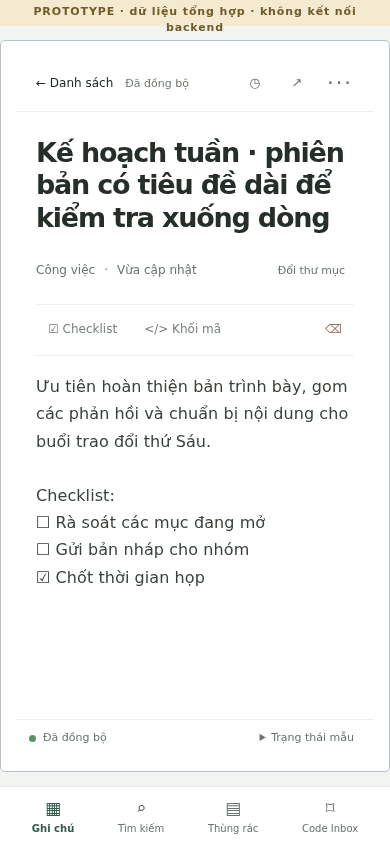
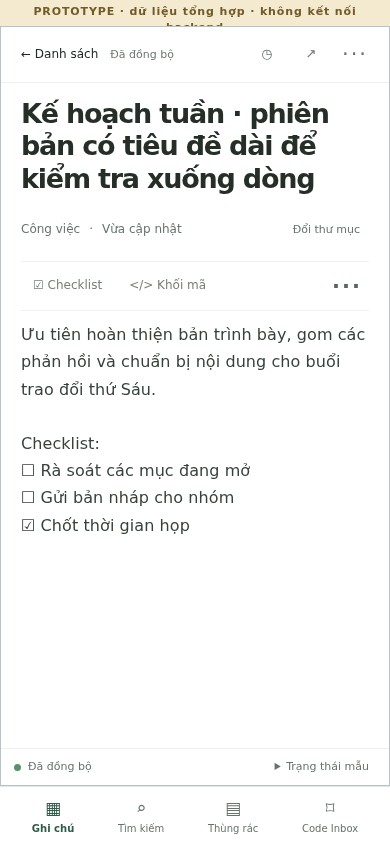
Refine responsive Notes review prototype

diff --git a/prototype/ui-responsive/prototype.css b/prototype/ui-responsive/prototype.css
@@ -1,6 +1,6 @@
 @import url('../../public/app.css');
 :root{font-family:Inter,ui-sans-serif,system-ui,-apple-system,BlinkMacSystemFont,"Segoe UI",sans-serif;color:#202923;background:#f2f4f1;line-height:1.45;--green:#315c49;--green-dark:#244534;--muted:#657168;--line:#e3e8e2;--paper:#fff;--safe-b:env(safe-area-inset-bottom,0px);--safe-t:env(safe-area-inset-top,0px);--keyboard-inset:0px}
-*{box-sizing:border-box}body{margin:0;min-width:320px;height:100vh;height:100dvh;overflow:hidden;background:#f2f4f1}button,input,textarea{font:inherit}button{min-height:44px;border:1px solid transparent;border-radius:9px;background:transparent;color:inherit;padding:8px 11px;box-shadow:none;cursor:pointer}button:hover{background:#edf1eb}a:focus-visible,button:focus-visible,input:focus-visible,textarea:focus-visible{outline:3px solid #39845e;outline-offset:2px}button:disabled{opacity:.5;cursor:default}.prototype-banner{height:26px;padding:4px 12px;background:#f3ead0;color:#725b27;text-align:center;font-size:11px;letter-spacing:.08em;font-weight:700}.app-shell{height:calc(100dvh - 26px);display:grid;grid-template-columns:232px minmax(0,1fr);min-height:0}.folders{display:flex;flex-direction:column;gap:4px;padding:18px 12px 10px;background:#f8f9f7;border-right:1px solid var(--line);min-height:0}.brand{display:flex;align-items:center;gap:10px;margin:0 0 22px;padding:4px 8px;text-decoration:none;color:var(--green-dark);font-weight:750;font-size:19px}.brand:first-letter{display:grid}.brand{letter-spacing:-.02em}.brand::first-letter{color:var(--green);font-size:24px}.folder{display:flex;align-items:center;gap:10px;text-align:left;color:#515d55;font-size:14px}.folder span{min-width:0;overflow:hidden;text-overflow:ellipsis;white-space:nowrap}.folder b{margin-left:auto;color:#68746b;font-size:12px;font-weight:500}.folder.active{background:#e8eee8;color:var(--green-dark);font-weight:650}.folder-spacer{flex:1}.account{display:flex;align-items:center;gap:9px;border-top:1px solid var(--line);padding:14px 3px 2px;font-size:12px}.account strong,.account small{display:block}.account small{color:var(--muted);margin-top:2px}.avatar{display:grid;place-items:center;width:32px;height:32px;border-radius:50%;background:#dce8dd;color:var(--green);font-weight:700}.account>button{margin-left:auto;min-width:40px}
+*{box-sizing:border-box}body{margin:0;min-width:320px;height:100vh;height:100dvh;overflow:hidden;background:#f2f4f1}button,input,textarea{font:inherit}button{min-width:44px;min-height:44px;border:1px solid transparent;border-radius:9px;background:transparent;color:inherit;padding:8px 11px;box-shadow:none;cursor:pointer}button:hover{background:#edf1eb}a:focus-visible,button:focus-visible,input:focus-visible,textarea:focus-visible{outline:3px solid #39845e;outline-offset:2px}button:disabled{opacity:.5;cursor:default}.prototype-banner{height:26px;padding:4px 12px;background:#f3ead0;color:#725b27;text-align:center;font-size:11px;letter-spacing:.08em;font-weight:700}.app-shell{height:calc(100dvh - 26px);display:grid;grid-template-columns:232px minmax(0,1fr);min-height:0}.folders{display:flex;flex-direction:column;gap:4px;padding:18px 12px 10px;background:#f8f9f7;border-right:1px solid var(--line);min-height:0}.brand{display:flex;align-items:center;gap:10px;margin:0 0 22px;padding:4px 8px;text-decoration:none;color:var(--green-dark);font-weight:750;font-size:19px}.brand:first-letter{display:grid}.brand{letter-spacing:-.02em}.brand::first-letter{color:var(--green);font-size:24px}.folder{display:flex;align-items:center;gap:10px;text-align:left;color:#515d55;font-size:14px}.folder span{min-width:0;overflow:hidden;text-overflow:ellipsis;white-space:nowrap}.folder b{margin-left:auto;color:#68746b;font-size:12px;font-weight:500}.folder.active{background:#e8eee8;color:var(--green-dark);font-weight:650}.folder-spacer{flex:1}.account{display:flex;align-items:center;gap:9px;border-top:1px solid var(--line);padding:14px 3px 2px;font-size:12px}.account strong,.account small{display:block}.account small{color:var(--muted);margin-top:2px}.avatar{display:grid;place-items:center;width:32px;height:32px;border-radius:50%;background:#dce8dd;color:var(--green);font-weight:700}.account>button{margin-left:auto;min-width:44px}
 main{min-width:0;min-height:0;display:grid;grid-template-columns:minmax(275px,340px) minmax(0,1fr);max-width:none;margin:0;padding:0}.list-pane{background:#fff;border-right:1px solid var(--line);min-width:0;min-height:0;display:flex;flex-direction:column;position:relative}.list-top{padding:24px 20px 12px}.list-heading{display:flex;align-items:center;justify-content:space-between;gap:8px}.eyebrow{font-size:10px;letter-spacing:.1em;color:#68746b;font-weight:700;margin:0 0 5px}.list-heading h1{font-size:23px;letter-spacing:-.04em;margin:0;font-weight:690}.icon-button{background:var(--green);color:white;font-weight:650}.icon-button:hover{background:var(--green-dark)}.icon-button span{font-size:13px}.search{height:42px;border:1px solid var(--line);border-radius:10px;display:flex;align-items:center;gap:8px;padding:0 10px;margin-top:18px;color:#879188}.search input{border:0!important;padding:0!important;min-height:38px;background:transparent!important;box-shadow:none!important;font-size:13px}.search kbd{white-space:nowrap;color:#68746b;font-size:10px}.list-tools{display:flex;align-items:center;gap:4px;margin-top:13px;color:var(--muted);font-size:12px}.list-tools>span{margin-right:auto}.list-tools button{font-size:12px;min-height:40px}.cards{min-height:0;overflow:auto;padding:0 12px 16px;overscroll-behavior:contain}.note-card{position:relative;display:flex;width:100%;min-height:90px;max-height:120px;flex-direction:column;align-items:stretch;text-align:left;margin:3px 0;padding:12px 13px;background:#fff;border:1px solid transparent;border-radius:11px;box-shadow:none;overflow:hidden}.note-card:hover{background:#fafbf9}.note-card[aria-current=true]{background:#f0f5ef;border-color:#cfdbce}.note-card[aria-pressed=true]{border:2px solid #588369}.note-card strong{font-size:14px;font-weight:650;overflow:hidden;text-overflow:ellipsis;white-space:nowrap}.note-card p{font-size:12px;color:#68746b;margin:5px 0;overflow:hidden;display:-webkit-box;-webkit-line-clamp:2;-webkit-box-orient:vertical;overflow-wrap:anywhere}.note-card small{font-size:10px;color:#68746b;margin-top:auto}.editor-pane{min-width:0;min-height:0;background:#fff;display:flex;flex-direction:column}.editor-top{height:66px;flex:0 0 auto;border-bottom:1px solid #edf0ed;display:flex;align-items:center;justify-content:flex-end;padding:0 28px}.editor-actions{display:flex;gap:3px}.editor-actions button{color:#68746b;font-size:13px}.more-button{font-size:21px!important;letter-spacing:2px}.editor-mobile-actions,.mobile-brand,.mobile-nav{display:none}.editor-scroll{min-height:0;overflow:auto;overscroll-behavior:contain;flex:1}.editor-content{width:min(100%,860px);margin:0 auto;padding:44px clamp(26px,5vw,76px) 48px}.title{width:100%;height:auto;min-height:1.25em;max-height:8em;overflow:hidden;resize:none;border:0!important;padding:0!important;background:transparent!important;font-size:clamp(25px,3vw,36px);line-height:1.2;font-weight:700;letter-spacing:-.045em;color:#252f28;box-shadow:none!important}.meta{display:flex;align-items:center;gap:9px;margin:14px 0 16px;color:#68746b;font-size:12px}.meta-spacer{flex:1}.meta button{font-size:11px;color:#66736a;min-height:40px;padding:5px 8px}.editor-tools{display:flex;align-items:center;gap:3px;border-top:1px solid #eff1ee;border-bottom:1px solid #eff1ee;padding:5px 0;margin:0 0 17px}.editor-tools button{font-size:12px;color:#778178;min-height:40px}.editor-tools #trash-note{margin-left:auto;color:#9b6c63}.editor-content textarea#body{display:block;width:100%;min-height:min(58vh,620px);resize:none;border:0!important;padding:0!important;background:transparent!important;font-size:15px;line-height:1.8;letter-spacing:.005em;color:#374139;box-shadow:none!important;overflow-wrap:anywhere;white-space:pre-wrap}.editor-footer{display:flex;justify-content:space-between;color:#68746b;font-size:11px;padding:14px 0}.statusbar{min-height:37px;display:flex;align-items:center;gap:7px;border-top:1px solid #edf0ed;padding:4px 20px;color:#68746b;font-size:11px}.status-dot{width:7px;height:7px;border-radius:50%;background:#57926d}.statusbar[data-state=draft] .status-dot{background:#cb9c41}.statusbar[data-state=error] .status-dot{background:#bd5849}.status-spacer{flex:1}.save-state{color:#6d796f;font-size:12px}.history-panel,.share-panel{border:1px solid var(--line);border-radius:10px;padding:16px;margin-top:12px;color:#566158;background:#fbfcfa}.history-panel p,.share-panel p{font-size:13px}.bulk{position:absolute;left:12px;right:12px;bottom:16px;padding:9px;background:#253a2d;color:white;border-radius:12px;display:flex;align-items:center;gap:4px;box-shadow:0 8px 25px #17231b33}.bulk[hidden]{display:none}.bulk button{color:white;font-size:12px}.toast{position:fixed;z-index:20;bottom:calc(16px + var(--safe-b));left:50%;transform:translateX(-50%);padding:10px 15px;background:#253a2d;color:#fff;border-radius:10px;font-size:13px;opacity:0;pointer-events:none;transition:opacity .15s}.toast.show{opacity:1}.sr-only{position:absolute!important;width:1px!important;height:1px!important;padding:0!important;margin:-1px!important;overflow:hidden!important;clip:rect(0,0,0,0)!important;white-space:nowrap!important;border:0!important}
 @media(max-width:700px){body{overflow:hidden}.app-shell{display:block;height:calc(100dvh - 26px)}.folders{display:none}.app-shell.show-folders .folders{display:flex;position:fixed;inset:26px auto 0 0;width:min(82vw,300px);height:calc(100dvh - 26px);z-index:30;box-shadow:12px 0 40px #18231c33}.app-shell.show-folders::after{content:"";position:fixed;inset:26px 0 0;background:#17231c55;z-index:29}.app-shell main{height:100%;display:block}.list-pane{height:100%;border:0}.list-top{padding:calc(12px + var(--safe-t)) 16px 9px}.mobile-brand{display:flex;align-items:center;gap:12px;height:42px;margin-bottom:11px}.mobile-brand strong{font-size:18px}.mobile-brand button:last-child{margin-left:auto;background:var(--green);color:white;width:42px}.mobile-brand button:first-child{margin-left:-8px}.list-heading{display:none}.search{margin-top:2px}.list-tools{margin-top:8px}.cards{padding:0 10px calc(74px + var(--safe-b))}.note-card{min-height:83px;max-height:98px;padding:10px 12px}.editor-pane{display:none;height:100%;position:fixed;inset:26px 0 calc(58px + var(--safe-b) + var(--keyboard-inset));height:auto;z-index:10}.app-shell.editing .list-pane{display:none}.app-shell.editing .editor-pane{display:flex}.editor-top{height:auto;min-height:56px;padding:calc(4px + var(--safe-t)) 12px 4px;justify-content:space-between;gap:5px}.editor-mobile-actions{display:flex;align-items:center;gap:4px;min-width:0}.editor-mobile-actions button{font-size:12px;padding:6px 7px;white-space:nowrap}.save-state{font-size:11px;white-space:nowrap}.editor-actions{gap:0}.editor-actions button{padding:7px 8px;min-width:42px}.editor-actions button span{display:none}.editor-scroll{padding-bottom:calc(16px + var(--safe-b))}.editor-content{padding:25px 20px 34px}.title{font-size:27px}.meta{margin:11px 0 13px;flex-wrap:wrap}.editor-content textarea#body{min-height:44vh;min-height:calc(100dvh - 310px);font-size:16px;line-height:1.7}.statusbar{padding:5px 13px calc(5px + var(--safe-b))}.statusbar>span:last-child{display:none}.mobile-nav{position:fixed;z-index:12;bottom:var(--keyboard-inset);left:0;right:0;padding:5px 10px calc(5px + var(--safe-b));height:calc(58px + var(--safe-b));display:flex;justify-content:space-around;background:#fff;border-top:1px solid var(--line)}.mobile-nav button{display:flex;min-width:52px;flex-direction:column;align-items:center;justify-content:center;gap:1px;font-size:17px;min-height:48px;color:#68746b}.mobile-nav button span{font-size:10px}.mobile-nav button.active{color:var(--green);font-weight:650}.bulk{bottom:calc(66px + var(--safe-b));flex-wrap:wrap}.bulk button{min-height:40px}.toast{bottom:calc(68px + var(--safe-b))}}
 @media(min-width:701px) and (max-width:900px){.app-shell{grid-template-columns:64px minmax(0,1fr)}.folders{padding:14px 8px}.brand{justify-content:center;font-size:0;margin-bottom:17px;padding:4px}.brand::first-letter{font-size:24px}.folder{justify-content:center;position:relative;padding:9px 4px}.folder span,.folder b,.account>span:not(.avatar),.account>button{display:none}.folder-spacer{min-height:16px}.account{justify-content:center;padding:12px 0 2px}}
@@ -10,4 +10,61 @@ main{min-width:0;min-height:0;display:grid;grid-template-columns:minmax(275px,34
 @media(prefers-reduced-motion:reduce){*,*::before,*::after{scroll-behavior:auto!important;transition:none!important;animation:none!important}}
 
 .state-picker{position:relative;margin:0;padding:0;border:0;background:transparent}.state-picker summary{font-size:11px;font-weight:500;color:#68746b;padding:5px 7px}.scenario-menu{position:absolute;z-index:25;right:0;bottom:30px;width:min(260px,80vw);padding:8px;background:white;border:1px solid var(--line);border-radius:11px;box-shadow:0 8px 25px #17231c22}.scenario-menu button{display:block;width:100%;text-align:left;font-size:12px;min-height:40px}.empty-state{margin:30px 8px;padding:18px;border:1px dashed #cbd6cc;border-radius:10px;color:#7b867d;font-size:13px}
-@media(min-width:701px) and (max-width:900px){.app-shell.single-pane{display:block}.app-shell.single-pane .folders{display:none}.app-shell.single-pane.show-folders .folders{display:flex;position:fixed;inset:26px auto 0 0;width:min(82vw,300px);height:calc(100dvh - 26px);z-index:30;box-shadow:12px 0 40px #18231c33}.app-shell.single-pane.show-folders::after{content:"";position:fixed;inset:26px 0 0;background:#17231c55;z-index:29}.app-shell.single-pane main{display:block;height:100%}.app-shell.single-pane .list-pane{display:flex;height:100%;border:0}.app-shell.single-pane .list-top{padding:calc(12px + var(--safe-t)) 16px 9px}.app-shell.single-pane .mobile-brand{display:flex;align-items:center;gap:12px;height:42px;margin-bottom:11px}.app-shell.single-pane .mobile-brand strong{font-size:18px}.app-shell.single-pane .mobile-brand button:last-child{margin-left:auto;background:var(--green);color:white;width:42px}.app-shell.single-pane .mobile-brand button:first-child{margin-left:-8px}.app-shell.single-pane .list-heading{display:none}.app-shell.single-pane .search{margin-top:2px}.app-shell.single-pane .list-tools{margin-top:8px}.app-shell.single-pane .cards{padding:0 10px calc(74px + var(--safe-b))}.app-shell.single-pane .editor-pane{display:none;height:auto;position:fixed;inset:26px 0 calc(58px + var(--safe-b) + var(--keyboard-inset));z-index:10}.app-shell.single-pane.editing .list-pane{display:none}.app-shell.single-pane.editing .editor-pane{display:flex}.app-shell.single-pane .editor-top{min-height:56px;padding:calc(4px + var(--safe-t)) 12px 4px;justify-content:space-between}.app-shell.single-pane .editor-mobile-actions{display:flex;align-items:center;gap:4px}.app-shell.single-pane .editor-mobile-actions button{font-size:12px;padding:6px 7px}.app-shell.single-pane .save-state{font-size:11px}.app-shell.single-pane .editor-actions{gap:0}.app-shell.single-pane .editor-actions button span{display:none}.app-shell.single-pane .editor-content{padding:35px clamp(26px,5vw,42px) 34px}.app-shell.single-pane .editor-content textarea#body{min-height:52vh;font-size:16px;line-height:1.7}.app-shell.single-pane .statusbar{padding:5px 13px calc(5px + var(--safe-b))}.app-shell.single-pane .mobile-nav{position:fixed;z-index:12;bottom:var(--keyboard-inset);left:0;right:0;padding:5px 10px calc(5px + var(--safe-b));height:calc(58px + var(--safe-b));display:flex;justify-content:space-around;background:#fff;border-top:1px solid var(--line)}.app-shell.single-pane .mobile-nav button{display:flex;min-width:52px;flex-direction:column;align-items:center;justify-content:center;gap:1px;font-size:17px;min-height:48px;color:#7c877e}.app-shell.single-pane .mobile-nav button span{font-size:10px}.app-shell.single-pane .mobile-nav button.active{color:var(--green);font-weight:650}}
+@media(min-width:701px) and (max-width:960px){.app-shell.single-pane{display:block}.app-shell.single-pane .folders{display:none}.app-shell.single-pane.show-folders .folders{display:flex;position:fixed;inset:26px auto 0 0;width:min(82vw,300px);height:calc(100dvh - 26px);z-index:30;box-shadow:12px 0 40px #18231c33}.app-shell.single-pane.show-folders::after{content:"";position:fixed;inset:26px 0 0;background:#17231c55;z-index:29}.app-shell.single-pane main{display:block;height:100%}.app-shell.single-pane .list-pane{display:flex;height:100%;border:0}.app-shell.single-pane .list-top{padding:calc(12px + var(--safe-t)) 16px 9px}.app-shell.single-pane .mobile-brand{display:flex;align-items:center;gap:12px;height:42px;margin-bottom:11px}.app-shell.single-pane .mobile-brand strong{font-size:18px}.app-shell.single-pane .mobile-brand button:last-child{margin-left:auto;background:var(--green);color:white;width:42px}.app-shell.single-pane .mobile-brand button:first-child{margin-left:-8px}.app-shell.single-pane .list-heading{display:none}.app-shell.single-pane .search{margin-top:2px}.app-shell.single-pane .list-tools{margin-top:8px}.app-shell.single-pane .cards{padding:0 10px calc(74px + var(--safe-b))}.app-shell.single-pane .editor-pane{display:none;height:auto;position:fixed;inset:26px 0 calc(58px + var(--safe-b) + var(--keyboard-inset));z-index:10}.app-shell.single-pane.editing .list-pane{display:none}.app-shell.single-pane.editing .editor-pane{display:flex}.app-shell.single-pane .editor-top{min-height:56px;padding:calc(4px + var(--safe-t)) 12px 4px;justify-content:space-between}.app-shell.single-pane .editor-mobile-actions{display:flex;align-items:center;gap:4px}.app-shell.single-pane .editor-mobile-actions button{font-size:12px;padding:6px 7px}.app-shell.single-pane .save-state{font-size:11px}.app-shell.single-pane .editor-actions{gap:0}.app-shell.single-pane .editor-actions button span{display:none}.app-shell.single-pane .editor-content{padding:35px clamp(26px,5vw,42px) 34px}.app-shell.single-pane .editor-content textarea#body{min-height:52vh;font-size:16px;line-height:1.7}.app-shell.single-pane .statusbar{padding:5px 13px calc(5px + var(--safe-b))}.app-shell.single-pane .mobile-nav{position:fixed;z-index:12;bottom:var(--keyboard-inset);left:0;right:0;padding:5px 10px calc(5px + var(--safe-b));height:calc(58px + var(--safe-b));display:flex;justify-content:space-around;background:#fff;border-top:1px solid var(--line)}.app-shell.single-pane .mobile-nav button{display:flex;min-width:52px;flex-direction:column;align-items:center;justify-content:center;gap:1px;font-size:17px;min-height:48px;color:#7c877e}.app-shell.single-pane .mobile-nav button span{font-size:10px}.app-shell.single-pane .mobile-nav button.active{color:var(--green);font-weight:650}}
+
+/* Responsive review follow-up: width-driven tablet surfaces, readable long titles, and labeled destructive action. */
+.title{overflow-y:auto;scrollbar-width:thin}
+.list-pane,.editor-pane{margin:0;padding:0;border-radius:0}
+.editor-more{position:relative;margin:0 0 0 auto;padding:0;border:0;border-radius:0;background:transparent}
+.editor-more summary{display:grid;place-items:center;width:44px;min-width:44px;height:44px;min-height:44px;padding:0;border:0;border-radius:9px;cursor:pointer;list-style:none;color:#59665d;font-size:21px;letter-spacing:2px}
+.editor-more summary::-webkit-details-marker{display:none}
+.editor-menu{position:absolute;right:0;top:42px;z-index:25;width:210px;padding:6px;background:#fff;border:1px solid var(--line);border-radius:10px;box-shadow:0 8px 25px #17231c22}
+.editor-menu button{width:100%;text-align:left;color:#8c4036;min-height:44px}
+.list-tools button,.editor-tools button,.bulk button{min-height:44px}
+.editor-actions button{min-width:44px}
+.meta button,.scenario-menu button{min-height:44px}
+@media(min-width:701px) and (max-width:1200px){
+  .app-shell{grid-template-columns:64px minmax(0,1fr)}
+  .folders{padding:14px 8px}
+  .brand{justify-content:center;font-size:0;margin-bottom:17px;padding:4px}
+  .folder{justify-content:center;position:relative;padding:9px 4px}
+  .folder span,.folder b,.account>span:not(.avatar),.account>button{display:none}
+  .account{justify-content:center;padding:12px 0 2px}
+  main{grid-template-columns:minmax(290px,320px) minmax(0,1fr)}
+  .mobile-brand{display:flex;align-items:center;gap:10px;height:42px;margin-bottom:8px}
+  .mobile-brand strong{font-size:18px}
+  .mobile-brand button:last-child{margin-left:auto;background:var(--green);color:white;width:44px}
+  .mobile-brand button:first-child{margin-left:-8px}
+  .list-heading{display:none}
+  .list-top{padding:14px 16px 9px}
+  .search{margin-top:2px}
+  .list-tools{margin-top:7px}
+  .editor-top{min-height:56px;height:auto;padding:4px 14px;justify-content:space-between}
+  .editor-mobile-actions{display:flex;align-items:center;gap:4px}
+  .editor-mobile-actions button{font-size:13px}
+  .editor-actions button span{display:inline}
+  .editor-content{width:min(100%,980px);padding:27px clamp(30px,4vw,56px) 38px}
+  .editor-content textarea#body{min-height:52vh}
+  .mobile-nav{display:none}
+}
+@media(min-width:701px) and (max-width:820px){
+  .app-shell.single-pane{display:block}
+  .app-shell.single-pane .folders{display:none}
+  .app-shell.single-pane.show-folders .folders{display:flex;position:fixed;inset:26px auto 0 0;width:min(82vw,300px);height:calc(100dvh - 26px);z-index:30;box-shadow:12px 0 40px #18231c33}
+  .app-shell.single-pane.show-folders::after{content:"";position:fixed;inset:26px 0 0;background:#17231c55;z-index:29}
+  .app-shell.single-pane main{display:block;height:100%}
+  .app-shell.single-pane .list-pane{height:100%;border:0}
+  .app-shell.single-pane .editor-pane{display:none;position:fixed;inset:26px 0 0;height:auto;z-index:10}
+  .app-shell.single-pane.editing .list-pane{display:none}
+  .app-shell.single-pane.editing .editor-pane{display:flex}
+  .app-shell.single-pane .editor-content{width:min(100%,744px);padding:25px 53px 38px}
+  .app-shell.single-pane .editor-content textarea#body{min-height:58vh}
+  .app-shell.single-pane .statusbar{padding-inline:16px}
+}
+@media(max-width:700px){
+  .editor-content{padding:15px 20px 30px}
+  .meta{margin:7px 0 9px}
+  .editor-tools{margin-bottom:10px;padding:2px 0}
+  .title{max-height:6.5em;font-size:27px}
+  .editor-content textarea#body{min-height:calc(100dvh - 280px)}
+}

diff --git a/prototype/ui-responsive/prototype.js b/prototype/ui-responsive/prototype.js
@@ -8,7 +8,7 @@ const fixture=[
  {id:'7',title:'Bữa tối cuối tuần',folder:'Cá nhân',text:'Rau củ, mì, gia vị. Nhớ kiểm tra danh sách trước khi đi chợ.',time:'T. 3'},
  {id:'8',title:'Ghi nhanh ý tưởng',folder:'Ý tưởng',text:'Một dòng ý tưởng ngắn để kiểm tra mật độ danh sách.',time:'T. 2'}
 ];
-const $=id=>document.getElementById(id),shell=document.querySelector('.app-shell'),draftKey='web-notes-ui-prototype-synthetic-v1';if(new URLSearchParams(location.search).get('layout')==='single')shell.classList.add('single-pane');let stored;try{stored=JSON.parse(localStorage.getItem(draftKey)||'null')}catch{}let notes=stored?.notes??structuredClone(fixture),active='1',selected=new Set(),selecting=false,trash=stored?.trash??[],folderFilter='Tất cả ghi chú',inTrash=false,timer,saveState='synced',previewMode=null;
+const $=id=>document.getElementById(id),shell=document.querySelector('.app-shell'),draftKey='web-notes-ui-prototype-synthetic-v1',tabletSingle=matchMedia('(min-width: 701px) and (max-width: 960px)');if(new URLSearchParams(location.search).get('layout')==='single'||tabletSingle.matches)shell.classList.add('single-pane');tabletSingle.addEventListener('change',event=>shell.classList.toggle('single-pane',event.matches||new URLSearchParams(location.search).get('layout')==='single'));let stored;try{stored=JSON.parse(localStorage.getItem(draftKey)||'null')}catch{}let notes=stored?.notes??structuredClone(fixture),active='1',selected=new Set(),selecting=false,trash=stored?.trash??[],folderFilter='Tất cả ghi chú',inTrash=false,timer,saveState='synced',previewMode=null;
 function esc(text){return String(text).replace(/[&<>"']/g,c=>({'&':'&amp;','<':'&lt;','>':'&gt;','"':'&quot;',"'":'&#39;'}[c]));}
 function current(){return notes.find(n=>n.id===active)}
 function render(){const q=$('search').value.toLocaleLowerCase('vi');const source=inTrash?trash:notes;const rows=(previewMode==='empty'?[]:source.filter(n=>(inTrash||folderFilter==='Tất cả ghi chú'||n.folder===folderFilter)&&`${n.title} ${n.text} ${n.folder}`.toLocaleLowerCase('vi').includes(q)));$('cards').replaceChildren(...rows.map(n=>{const b=document.createElement('button');b.type='button';b.className='note-card';b.dataset.id=n.id;b.setAttribute('aria-current',String(n.id===active));if(selecting)b.setAttribute('aria-pressed',String(selected.has(n.id)));b.innerHTML=`<strong>${esc(n.title||'Chưa có tiêu đề')}</strong><p>${esc(n.text)}</p><small>${esc(n.folder)} · ${esc(n.time)}</small>`;b.addEventListener('click',()=>selecting?toggleSelect(n.id):open(n.id));return b;}));if(!rows.length){const empty=document.createElement('p');empty.className='empty-state';empty.textContent=inTrash?'Thùng rác đang trống.':q?'Không tìm thấy ghi chú phù hợp.':'Chưa có ghi chú trong kho này.';$('cards').append(empty);}$('note-count').textContent=`${rows.length} ghi chú`;$('restore-trash').hidden=!inTrash||!trash.length;$('select-mode').hidden=inTrash;$('bulk').hidden=!selecting;$('selected-count').textContent=`${selected.size} đã chọn`;document.querySelectorAll('.folder[data-folder]').forEach(b=>b.classList.toggle('active',!inTrash&&b.dataset.folder===folderFilter));}
@@ -32,5 +32,5 @@ $('bulk-move').addEventListener('click',()=>{for(const n of notes.filter(x=>sele
 $('move-note').addEventListener('click',()=>{const n=current();n.folder=n.folder==='Công việc'?'Cá nhân':'Công việc';$('folder-meta').textContent=n.folder;render();toast(`Đã chuyển vào ${n.folder} (fixture)`);});$('trash-note').addEventListener('click',()=>{const n=current();trash.push(n);notes=notes.filter(x=>x.id!==active);persistFixture();active=notes[0]?.id;render();if(active)open(active);toast('Đã chuyển vào thùng rác (fixture)');});
 $('history-button').addEventListener('click',()=>{$('history-panel').hidden=!$('history-panel').hidden;$('history-button').setAttribute('aria-expanded',String(!$('history-panel').hidden));});$('history-close').addEventListener('click',()=>$('history-panel').hidden=true);$('share-button').addEventListener('click',()=>{$('share-panel').hidden=!$('share-panel').hidden;});$('share-close').addEventListener('click',()=>$('share-panel').hidden=true);$('revoke-share').addEventListener('click',()=>{ $('share-panel').hidden=true;toast('Đã ngừng chia sẻ fixture');});$('checklist-button').addEventListener('click',()=>{const area=$('body');const at=area.selectionStart;area.setRangeText('\n☐ Mục checklist mới',at,area.selectionEnd,'end');area.dispatchEvent(new Event('input',{bubbles:true}));area.focus();});$('code-button').addEventListener('click',()=>{const area=$('body'),a=area.selectionStart,b=area.selectionEnd;area.setRangeText('\n```\nMã tổng hợp\n```\n',a,b,'end');area.dispatchEvent(new Event('input',{bubbles:true}));area.focus();});$('more-button').addEventListener('click',()=>toast('Thao tác bổ sung: ghim, xuất, xóa vĩnh viễn'));
 document.querySelectorAll('[data-scenario]').forEach(button=>button.addEventListener('click',()=>{button.closest('details')?.removeAttribute('open');previewMode=button.dataset.scenario==='empty'?'empty':null;const messages={ready:['synced','Đã đồng bộ'],loading:['loading','Đang tải danh sách…'],offline:['draft','Ngoại tuyến · đã giữ trên máy'],error:['error','Lỗi đồng bộ · bản nháp vẫn được giữ'],conflict:['conflict','Xung đột phiên · bản nháp của bạn vẫn được giữ'],empty:['synced','Kho tổng hợp trống']};const [state,label]=messages[button.dataset.scenario];setState(state,label);render();}));
-document.addEventListener('keydown',e=>{if((e.metaKey||e.ctrlKey)&&e.key.toLowerCase()==='k'){e.preventDefault();$('search').focus();}if(e.key==='Escape'){shell.classList.remove('show-folders');if(innerWidth<=700)shell.classList.remove('editing');}});
-const viewport=window.visualViewport;const updateKeyboardInset=()=>{const inset=viewport?Math.max(0,window.innerHeight-viewport.height-viewport.offsetTop):0;document.documentElement.style.setProperty('--keyboard-inset',`${Math.round(inset)}px`);if(shell.classList.contains('editing'))resizeTitle();};viewport?.addEventListener('resize',updateKeyboardInset);window.addEventListener('resize',updateKeyboardInset);for(const field of [$('title'),$('body')])field.addEventListener('focus',()=>setTimeout(()=>field.scrollIntoView({block:'nearest',behavior:'smooth'}),60));updateKeyboardInset();render();open(active);
+document.addEventListener('keydown',e=>{if((e.metaKey||e.ctrlKey)&&e.key.toLowerCase()==='k'){e.preventDefault();$('search').focus();}if(e.key==='Escape'){shell.classList.remove('show-folders');document.querySelector('.editor-more').removeAttribute('open');if(innerWidth<=960)shell.classList.remove('editing');}});
+const viewport=window.visualViewport;const updateKeyboardInset=()=>{const inset=viewport?Math.max(0,window.innerHeight-viewport.height-viewport.offsetTop):0;document.documentElement.style.setProperty('--keyboard-inset',`${Math.round(inset)}px`);if(shell.classList.contains('editing'))resizeTitle();};viewport?.addEventListener('resize',updateKeyboardInset);window.addEventListener('resize',updateKeyboardInset);for(const field of [$('title'),$('body')])field.addEventListener('focus',()=>setTimeout(()=>field.scrollIntoView({block:'nearest',behavior:'smooth'}),60));updateKeyboardInset();render();open(active);if(tabletSingle.matches)shell.classList.remove('editing');

diff --git a/prototype/ui-responsive/index.html b/prototype/ui-responsive/index.html
@@ -41,7 +41,7 @@
         <div class="editor-scroll" id="editor-scroll"><div class="editor-content">
           <label class="sr-only" for="title">Tiêu đề ghi chú</label><textarea id="title" class="title" rows="1" maxlength="200" aria-label="Tiêu đề ghi chú"></textarea>
           <div class="meta"><span id="folder-meta">Công việc</span><span>·</span><span id="updated-meta">Vừa cập nhật</span><span class="meta-spacer"></span><button id="move-note">Đổi thư mục</button></div>
-          <div class="editor-tools"><button id="checklist-button">☑ <span>Checklist</span></button><button id="code-button">&lt;/&gt; <span>Khối mã</span></button><button id="trash-note" aria-label="Chuyển note vào thùng rác">⌫</button></div>
+          <div class="editor-tools"><button id="checklist-button" aria-label="Chèn mục checklist">☑ <span>Checklist</span></button><button id="code-button" aria-label="Chèn khối mã">&lt;/&gt; <span>Khối mã</span></button><details class="editor-more"><summary aria-label="Thao tác khác">···</summary><div class="editor-menu"><button id="trash-note">Chuyển vào thùng rác</button></div></details></div>
           <label class="sr-only" for="body">Nội dung ghi chú</label><textarea id="body" aria-label="Nội dung ghi chú" spellcheck="false"></textarea>
           <div class="editor-footer"><span>Markdown nhẹ · lưu tự động</span><span id="word-count">0 từ</span></div>
           <div class="history-panel" id="history-panel" hidden><strong>Lịch sử gần đây</strong><p>Hôm nay, 10:42 · Bản hiện tại</p><p>Hôm qua, 16:18 · Bản trước</p><button id="history-close">Đóng</button></div>

diff --git a/docs/RESPONSIVE-UI-PROTOTYPE-20261029.md b/docs/RESPONSIVE-UI-PROTOTYPE-20261029.md
@@ -80,3 +80,33 @@ For the existing NAS Tailscale interface, the tested NAS address is `100.94.158.
 ## Review gate
 
 This remains a prototype branch. The UI branch is pushed at https://github.com/hunghvt-cyber/web-notes/tree/codex/ui-responsive-prototype-20261029. It contains the original UI commit `491364b475e442119d03bfaad6d3b1b795315c1a` and follow-up `a468b59648f004533c6dc6bead949bc8369d3ebf` (tree `5e7340f865d738e82f0f2da5e933d6729e811cfe`), verified as the remote branch head before this status correction. No PR was created; no merge or Production deployment was performed. Review phone one-handed use, tablet portrait split width, landscape editor width, editor keyboard avoidance, and desktop code/text density before deciding whether to port any design to the real Firestore UI. Backup/restore evidence from 2026-10-29 is recorded separately in [`BACKUP-CRON-VERIFICATION-20261029.md`](BACKUP-CRON-VERIFICATION-20261029.md). Backend behavior and Production data were not exercised or modified.
+
+## Review follow-up — 2026-10-29
+
+This follow-up supersedes the earlier default-layout and 40px-target notes above. The reviewed app remains isolated under `prototype/ui-responsive/`; edits are synthetic localStorage data only.
+
+- **Phone (390×844 CSS px):** remains a single primary surface with explicit list/editor switching, folder drawer, and bottom navigation. Reduced vertical gaps between title, note metadata, and toolbar bring body content higher without reducing body text size or touch targets. The title textarea grows for short titles and scrolls internally after its height cap; the full long title remains selectable, reachable, and editable. Measured editor width is 390px and body textarea width is 348px. Long title editing is captured in [phone long title](ui-prototype-20261029/after-phone-long-title.png).
+- **iPad mini reference portrait (744×1133 CSS px):** defaults to the list, with a one-pane list/editor switch, folder drawer, and visible “Danh sách” back button in the editor. The measured editor is 744px wide and the editable body is 636px wide (within 2px of the 638px prior measurement). Split view is not enabled by default. See [portrait list](ui-prototype-20261029/after-ipad-mini-portrait-single-list.png) and [portrait editor](ui-prototype-20261029/after-ipad-mini-portrait-single-editor.png).
+- **iPad mini reference landscape (1133×744 CSS px):** list and editor are the default. The folder sidebar collapses to a 64px labeled-by-accessible-name icon rail, and the list offers a drawer trigger. The list is 320px, editor 749px, and editable body 656px. The fixture's long title fits in two lines without clipping. See [landscape](ui-prototype-20261029/after-ipad-mini-landscape.png).
+- **PC (1440×900 CSS px):** retains the 232px folder sidebar, 340px list, and 868px editor. Editable body width measures 716px; code can use this same field, so the universal text-column cap suggested in review was not applied. See [PC](ui-prototype-20261029/after-pc.png).
+- **Width breakpoint:** the one-pane layout applies through 960 CSS px, where the 64px folder rail plus a 320px list and roughly 560px editor need about 944px. Above that, the split layout has enough room for the list and editing surface. This uses content widths, not device names.
+- **Actions and states:** common visible buttons are at least 44×44 CSS px in the four viewport checks. The ambiguous red trash icon was removed from the toolbar; “Chuyển vào thùng rác” is a labeled menu item. Icon-only controls have accessible names. Smoke asserts distinct local draft, syncing, synced, error, and conflict labels/markers. These are simulated states only.
+- **DOM and interaction:** layout switches use media queries and a responsive class on the same list/editor elements; the title and body textarea nodes are not recreated. Browser smoke confirms note draft, focus/caret, and body scroll survive 390→744→1133→390 viewport changes. It also covers drawer/menu, search, title tail editing, long body scrolling, code insertion, history/share, synthetic trash/restore, navigation, focus indication, reduced motion, and empty/conflict/error/offline states. No requests to API paths are made.
+
+### Updated evidence
+
+Chromium headless on NAS arm64, using emulated CSS viewports, produced refreshed screenshots at 390×844, 744×1133, 1133×744, and 1440×900. All have no horizontal overflow, the title is not clipped, and there are no visible buttons smaller than 44×44. Geometry and interaction results are in [`browser-results.json`](ui-prototype-20261029/browser-results.json). `npm run check:source` passed (50 modules); `node --check` passed for the prototype and smoke runner; the browser smoke passed. The preview allowlist returned HTTP 200 for the prototype and 404 for `/api/health` at `http://100.94.158.94:4173/prototype/ui-responsive/`.
+
+One independent text-only Gemini review was run with the sanitized summary in [`gemini-review-prompt.txt`](ui-prototype-20261029/gemini-review-prompt.txt). It identified: (1) verify a consistent 44×44 minimum; (2) consider constraining long prose on desktop; (3) test actual device and Safari keyboard/viewport behavior. The first was accepted and now has an explicit browser geometry assertion. The second was not adopted because the prototype uses one editor field for prose and code; narrowing that shared field would reduce code editing width and the reported browser measurements show no layout overflow. The third remains a device acceptance item, not a Chromium claim. Gemini had no blocking interaction finding from the supplied summary; it did not inspect screenshots or source.
+
+### User device checks still needed
+
+Chromium emulation is not a check of Safari, iPadOS, a hardware/on-screen keyboard, or a physical phone. Before adapting this prototype to the real app, try on a phone and iPad mini 7:
+
+1. Open a long-title note, move the caret to the end, edit it, and confirm it remains reachable while scrolling the title field.
+2. Open the folder drawer, change folders, open a note, and use “← Danh sách”; repeat after portrait/landscape rotation.
+3. On the phone, edit a long note with the on-screen keyboard open. Check bottom navigation, safe areas, visual viewport changes, caret, and scroll while the keyboard and Safari address bars appear/disappear.
+4. On iPad, test portrait list/editor switching, landscape split layout, touch scrolling, and attached-keyboard Tab/Shift+Tab, Enter, Escape, and search shortcut.
+5. Open the toolbar menu and use the labeled trash action; inspect the simulated local, syncing, synced, error, and conflict states.
+
+The prototype preview remains on the existing Tailscale URL. This branch has not been merged or deployed; no Production app, backend, auth, or schema was changed.
